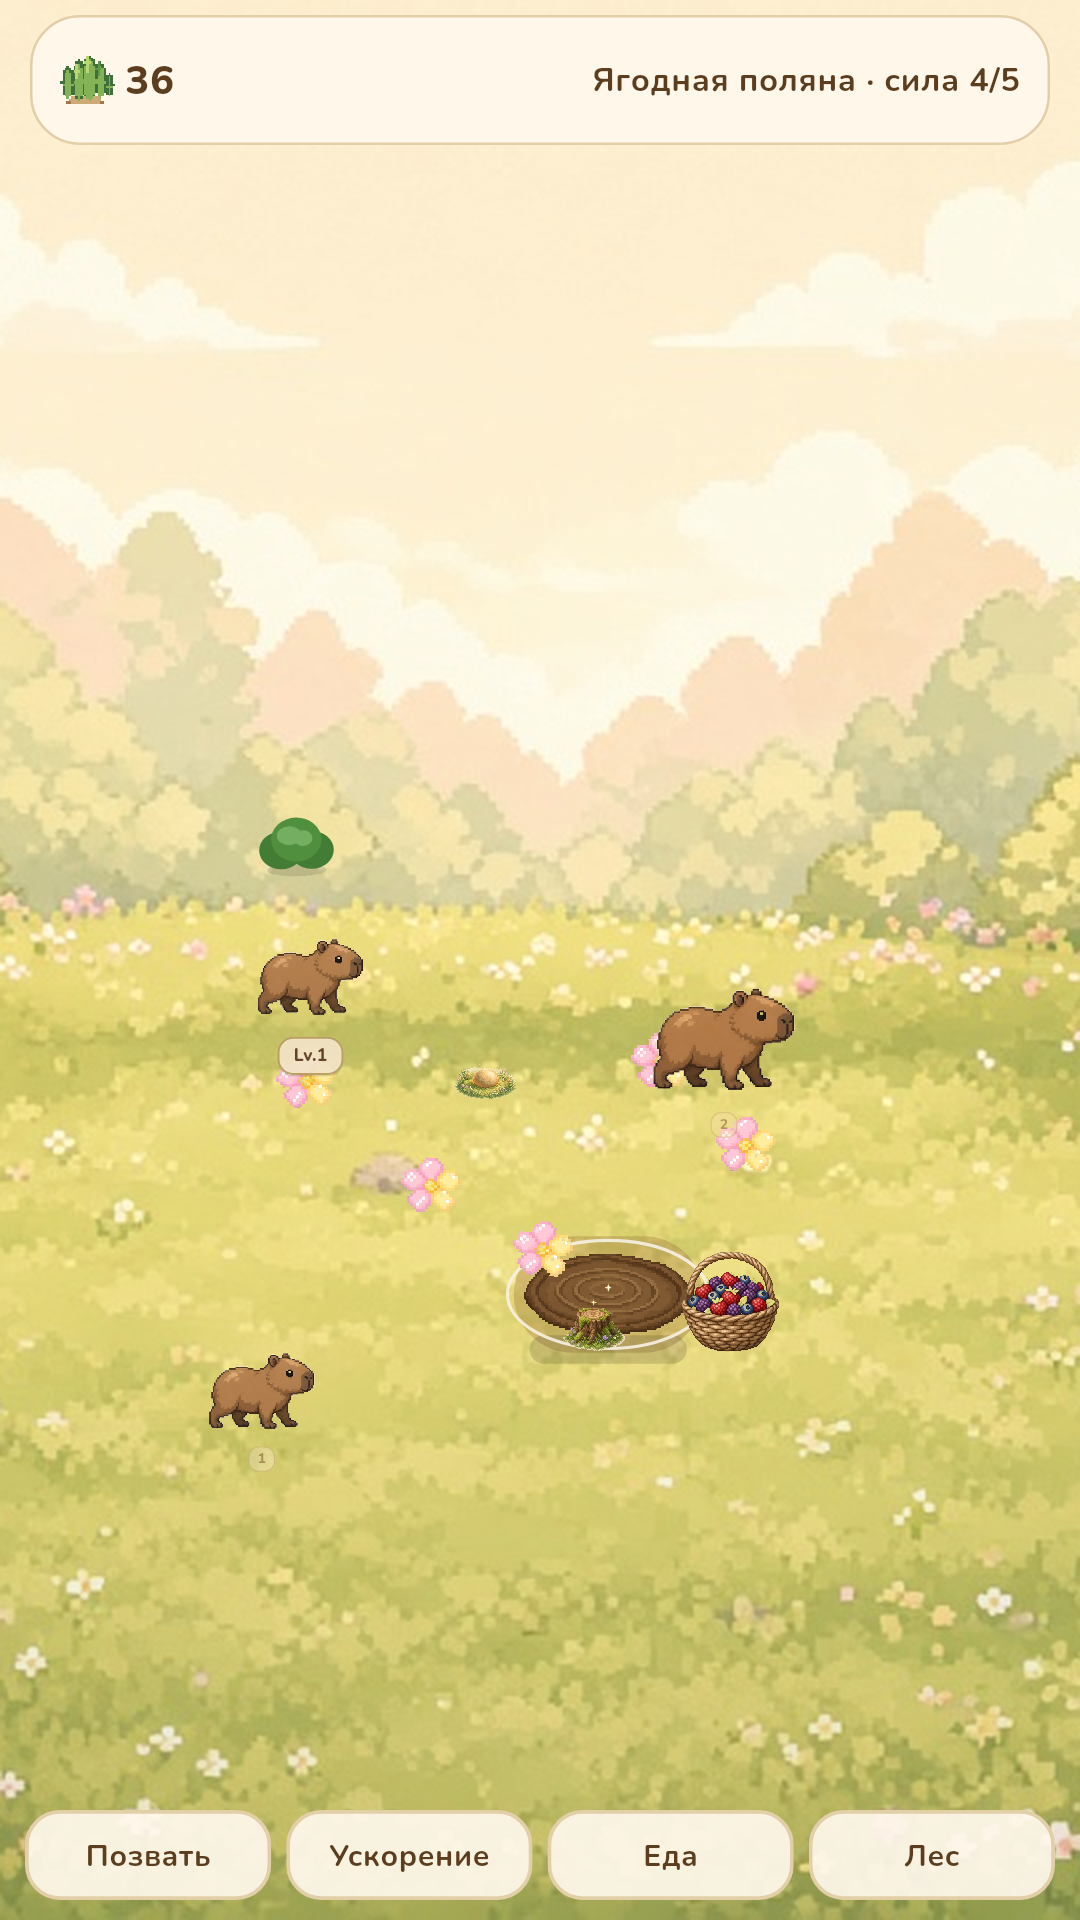
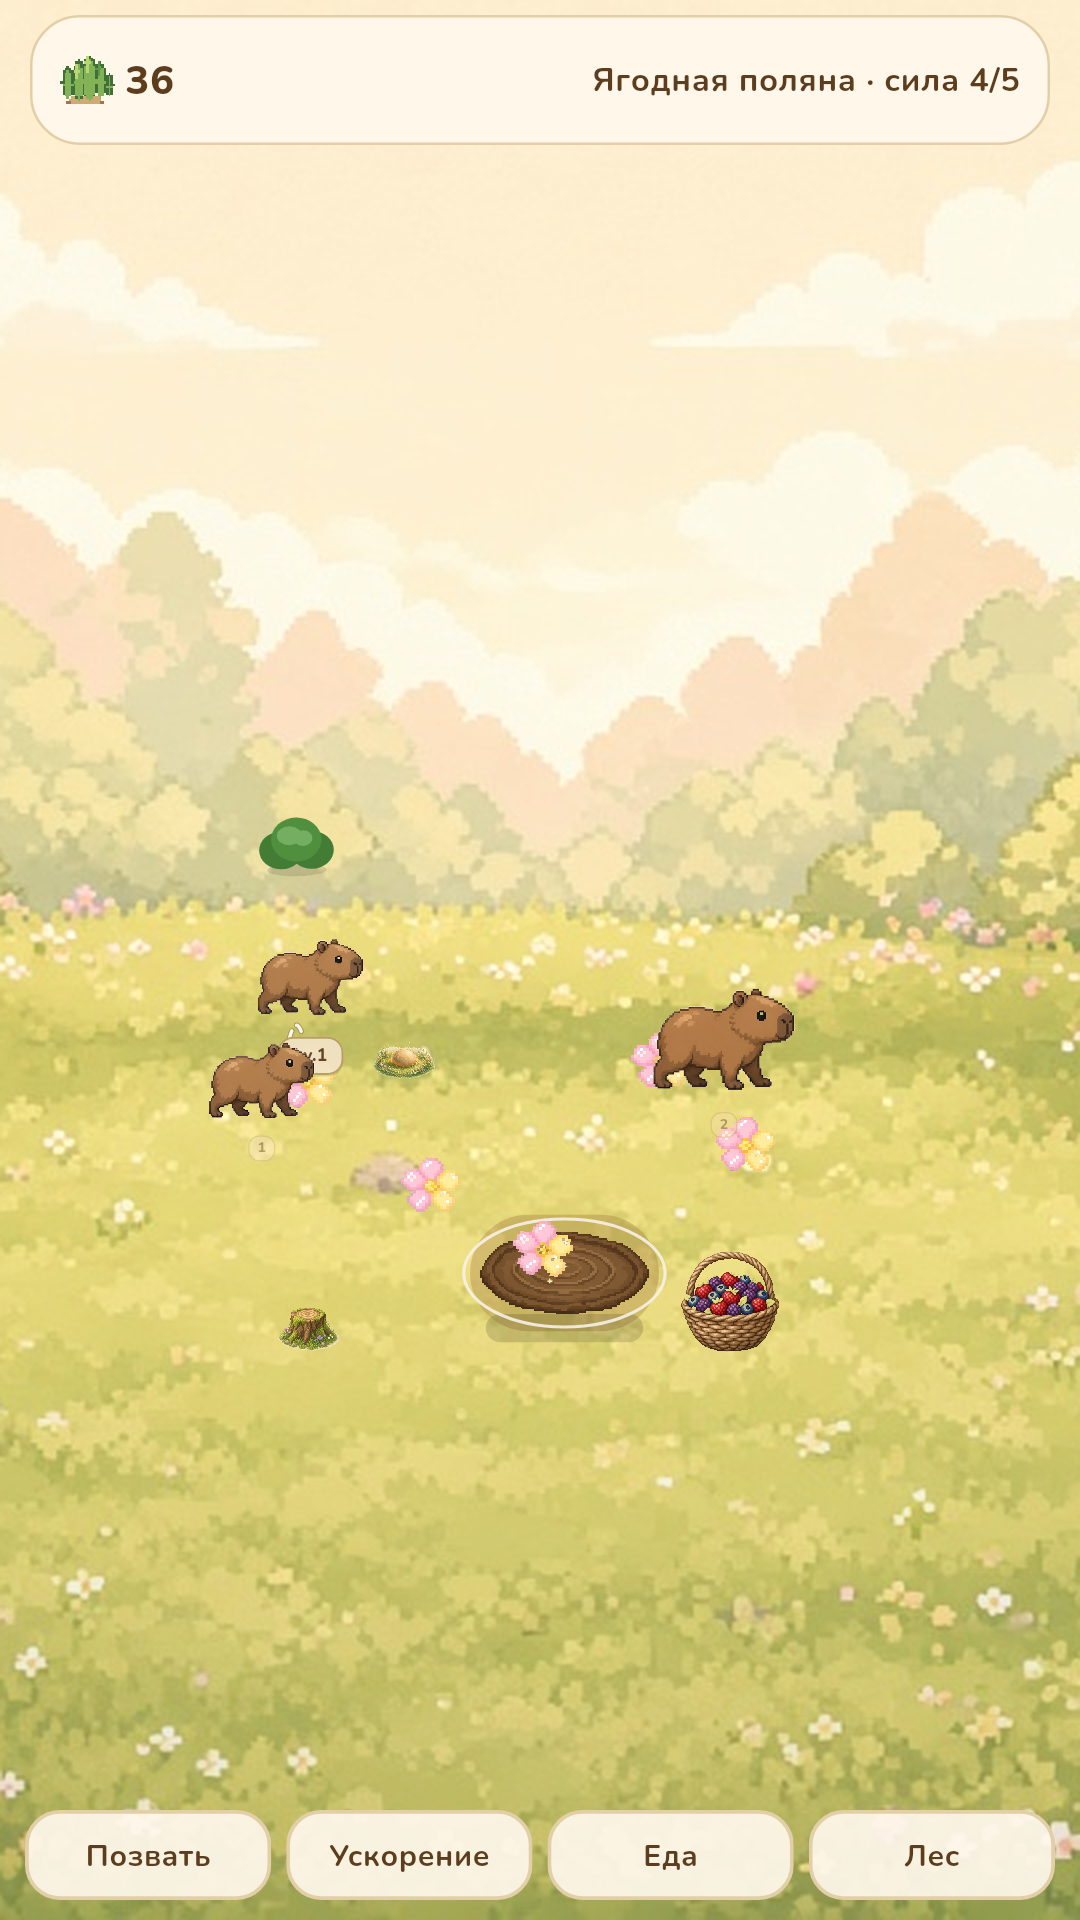
fix(ui): keep cozy places off the puddle ring
The stump sat on the wood slice. It now stands on the lower-left grass, and a new puddle will not land on a place marker.

diff --git a/lib/features/game/models/balance.dart b/lib/features/game/models/balance.dart
@@ -1,6 +1,7 @@
 import 'dart:math' as math;
 import 'dart:ui';
 
+import 'multipliers/cozy_place.dart';
 import 'world_zones.dart';
 
 /// Tunable balance constants for Phase 1–2 (v0).
@@ -176,6 +177,11 @@ abstract final class BalanceV0 {
         top + random01() * (bottom - top),
       );
       if ((p - berry).distance < 0.15) continue;
+      final onPlace = CozyPlaceKind.values.any((kind) {
+        final c = kind.center;
+        return (p - Offset(c.$1, c.$2)).distance < 0.18;
+      });
+      if (onPlace) continue;
       if (WorldZones.isInMeadow(p, herdCount: herdCount)) return p;
     }
     return WorldZones.clampToMeadow(

diff --git a/lib/features/game/models/multipliers/cozy_place.dart b/lib/features/game/models/multipliers/cozy_place.dart
@@ -39,10 +39,13 @@ extension CozyPlaceKindX on CozyPlaceKind {
   };
 
   /// Normalized meadow center.
+  ///
+  /// Clear of the low wood ring (~0.48, 0.84), the berry basket (~0.78, 0.80),
+  /// and the early-meadow bodies. Sprites only — no plate behind them.
   (double x, double y) get center => switch (this) {
-    CozyPlaceKind.pen => (0.58, 0.84),
-    CozyPlaceKind.warmStone => (0.42, 0.60),
-    CozyPlaceKind.tent => (0.70, 0.52),
+    CozyPlaceKind.pen => (0.16, 0.84),
+    CozyPlaceKind.warmStone => (0.30, 0.58),
+    CozyPlaceKind.tent => (0.84, 0.54),
   };
 
   static CozyPlaceKind? tryParse(String? raw) {
